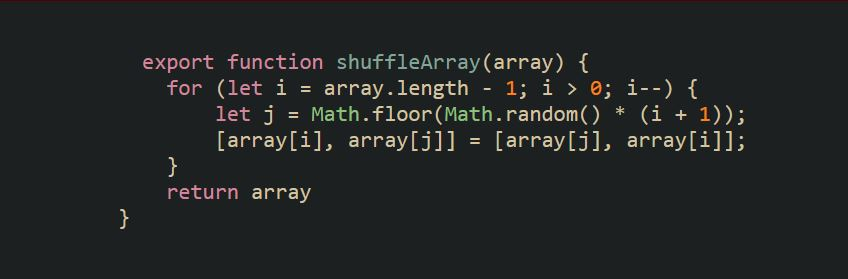
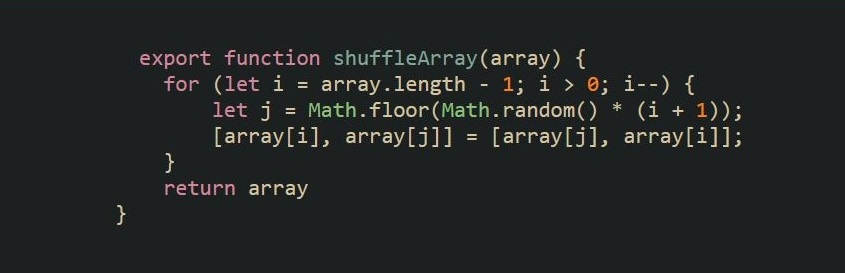
themes options style

diff --git a/js/themes/themes.js b/js/themes/themes.js
@@ -1,37 +1,37 @@
 const themes = {
-    'default': "an-old-hope.css",
-    'A 11 Y Dark': 'a11y-dark.css',
-    'Atom One Dark': 'atom-one-dark.css',
-    'Atom One Dark Reasonable': 'atom-one-dark-reasonable.css',
-    'Atelier Estuary': "atelier-estuary-dark.css",
-    'Ashes': 'ashes.min.css',
-    "Black Metal": 'black-metal-immortal.min.css',
-    "Bright":"bright.min.css",
-    "Cupertino": "cupertino.min.css",
-    'Color brewer': 'color-brewer.css',
-    'Darcula': "darcula.css",
-    'Dracula': 'dracula.css',
-    'Dark Violet': "dark-violet.min.css",
-    "Edge Dark": "edge-dark.css",
-    "Edge Light": 'edge-light.css',
-    "Espresso": 'espresso.min.css',
-    "Hardcore":"hardcore.min.css",
-    'Github': 'github.css',
-    'Google Dark': 'google-dark.min.css',
-    'Google Light': 'google-light.min.css',
-    'Green Screen': 'green-screen.min.css',
-    'GruvBox': 'gruvbox-dark-hard.min.css',
-    'Harmonic 16': 'harmonic16-dark.min.css',
-    'Helios': 'helios.min.css',
-    'Icy Dark': 'icy-dark.min.css',
-    'Ir black': 'ir-black-min.css',
-    'Kimber': 'kimber.min.css',
-    'London Tube': 'london-tube.min.css',
-    'Marrakesh': 'marrakesh.min.css',
-    'Material Palenight': 'material-palenight.min.css',
-    'Mocha': 'mocha.min.css',
-    'Monokai': 'monokai.min.css',
-    'Nebula': 'nebula.min.css',
+    'Default': "an-old-hope",
+    'A 11 Y Dark': 'a11y-dark',
+    'Atom One Dark': 'atom-one-dark',
+    'Atom One Dark Reasonable': 'atom-one-dark-reasonable',
+    'Atelier Estuary': "atelier-estuary-dark",
+    'Ashes': 'ashes.min',
+    "Black Metal": 'black-metal-immortal.min',
+    "Bright":"bright.min",
+    "Cupertino": "cupertino.min",
+    'Color brewer': 'color-brewer',
+    'Darcula': "darcula.min",
+    'Dracula': 'dracula.min',
+    'Dark Violet': "dark-violet.min",
+    "Edge Dark": "edge-dark.min",
+    "Edge Light": 'edge-light.min',
+    "Espresso": 'espresso.min',
+    "Hardcore":"hardcore.min",
+    'Github': 'github',
+    'Google Dark': 'google-dark.min',
+    'Google Light': 'google-light.min',
+    'Green Screen': 'green-screen.min',
+    'GruvBox': 'gruvbox-dark-hard.min',
+    'Harmonic 16': 'harmonic16-dark.min',
+    'Helios': 'helios.min',
+    'Icy Dark': 'icy-dark.min',
+    'Ir black': 'ir-black.min',
+    'Kimber': 'kimber.min',
+    'London Tube': 'london-tube.min',
+    'Marrakesh': 'marrakesh.min',
+    'Material Palenight': 'material-palenight.min',
+    'Mocha': 'mocha.min',
+    'Monokai': 'monokai.min',
+    'Nebula': 'nebula.min',
     
 }
 

diff --git a/index.html b/index.html
@@ -10,7 +10,7 @@
     <!-- shake animation -->
     <link rel="stylesheet" href="./style/animation.css" />
     <!-- code style -->
-    <link rel="stylesheet" href="./code_styles/dracula.min.css" />
+    <link rel="stylesheet" href="./code_styles/github.min.css" />
     <!-- settings -->
     <link rel="stylesheet" href="./style/settings.css">
     <!-- code style scripts -->
@@ -117,15 +117,17 @@
        <!-- end options -->
 
       <div class='settings-themes'>
-        <pre><code class="javascript" id="demo-code">
-          export function shuffleArray(array) {
-            for (let i = array.length - 1; i > 0; i--) {
-                let j = Math.floor(Math.random() * (i + 1));
-                [array[i], array[j]] = [array[j], array[i]];
-            }     
-            return array
-        }
-        </code></pre>
+
+        <div class="theme-wrapper">
+          <img src="./public/assets/a11y-dark.JPG" alt="a11y-dark_theme">
+          <h3>A 11 Y Dark</h3>
+        </div>
+
+        <div class="theme-wrapper">
+          <img src="./public/assets/atom-one-dark.JPG" alt="a11y-dark_theme">
+          <h3>Atom One Dark</h3>
+        </div>
+
       </div>
 
     </div>
@@ -133,6 +135,6 @@
     <!-- end settings -->
 
     <script src="./js/script.js" type="module"></script>
-    <script src='./js/selectStyle.js'></script>
+    <script src='./js/selectStyle.js' type="module"></script>
   </body>
 </html>

diff --git a/style/settings.css b/style/settings.css
@@ -46,3 +46,69 @@
     font-size: 1.2rem;
     border-radius: 6px;
   }
+
+  .settings-themes {
+      width: 95%;
+      margin: auto;
+      display: grid;
+      grid-template-columns: repeat(2, 1fr);
+      grid-auto-rows: auto;
+      gap: 0.5rem;
+  }
+
+  .theme-wrapper {
+      cursor: pointer;
+      display: flex;
+      flex-direction: column;
+      align-items: center;
+      padding: 0.4rem;
+      border: 2px solid #2d2a2a;
+      border-radius: 4px;
+      transition: all .4s ease;
+  }
+
+  .theme-wrapper:hover {
+      border-color: var(--pale-gold);
+      transform: scale(1.04);
+  }
+
+  .theme-wrapper img {
+      width: 500px;
+      border-radius: 4px;
+  }
+
+  .theme-wrapper h3 {
+      color: var(--pale-gold);
+      margin-bottom: 0;
+      transition: color .4s ease;
+  }
+
+  .theme-wrapper:hover h3 {
+    color: white;
+}
+
+  @media (max-width: 1080px){
+      .settings-themes {
+          width: 80%;
+          grid-template-columns: 1fr !important;
+      }
+  }
+
+  @media (max-width: 750px){
+    .settings-themes {
+        width: 90%;
+    }
+    .theme-wrapper img {
+        width: 90%;
+    }
+  }
+
+  @media (max-width: 500px){
+    .settings-themes {
+        width: 95%;
+    }
+
+    .theme-wrapper img {
+        width: 95%;
+    }
+  }

diff --git a/js/selectStyle.js b/js/selectStyle.js
@@ -1,5 +1,31 @@
 import themes from './themes/themes.js';
+const styleOptionsWrapper = document.querySelector('.settings-themes');
 
-const styleOptionsWrapper = document.querySelector('.style-options-grid');
+let theme = document.createElement('div');
+const themeImage = document.createElement('img');
+
+{/* <div class="theme-wrapper">
+<img src="./public/assets/atom-one-dark.JPG" alt="a11y-dark_theme">
+<h3>Atom One Dark</h3>
+</div> */}
+
+
+for(let [theme, path] of Object.entries(themes)) {
+    const wrapper = document.createElement('div');
+    const img = document.createElement('img');
+    const themeName = document.createElement('h3');
+    
+    img.src = `../public/assets/${path}.JPG`;
+    img.alt = theme + ' theme';
+    themeName.textContent = theme;
+
+    wrapper.classList.add('theme-wrapper')
+    wrapper.append(img, themeName);
+    styleOptionsWrapper.append(wrapper)
+
+}
+
+
+
 
 hljs.highlightAll();
